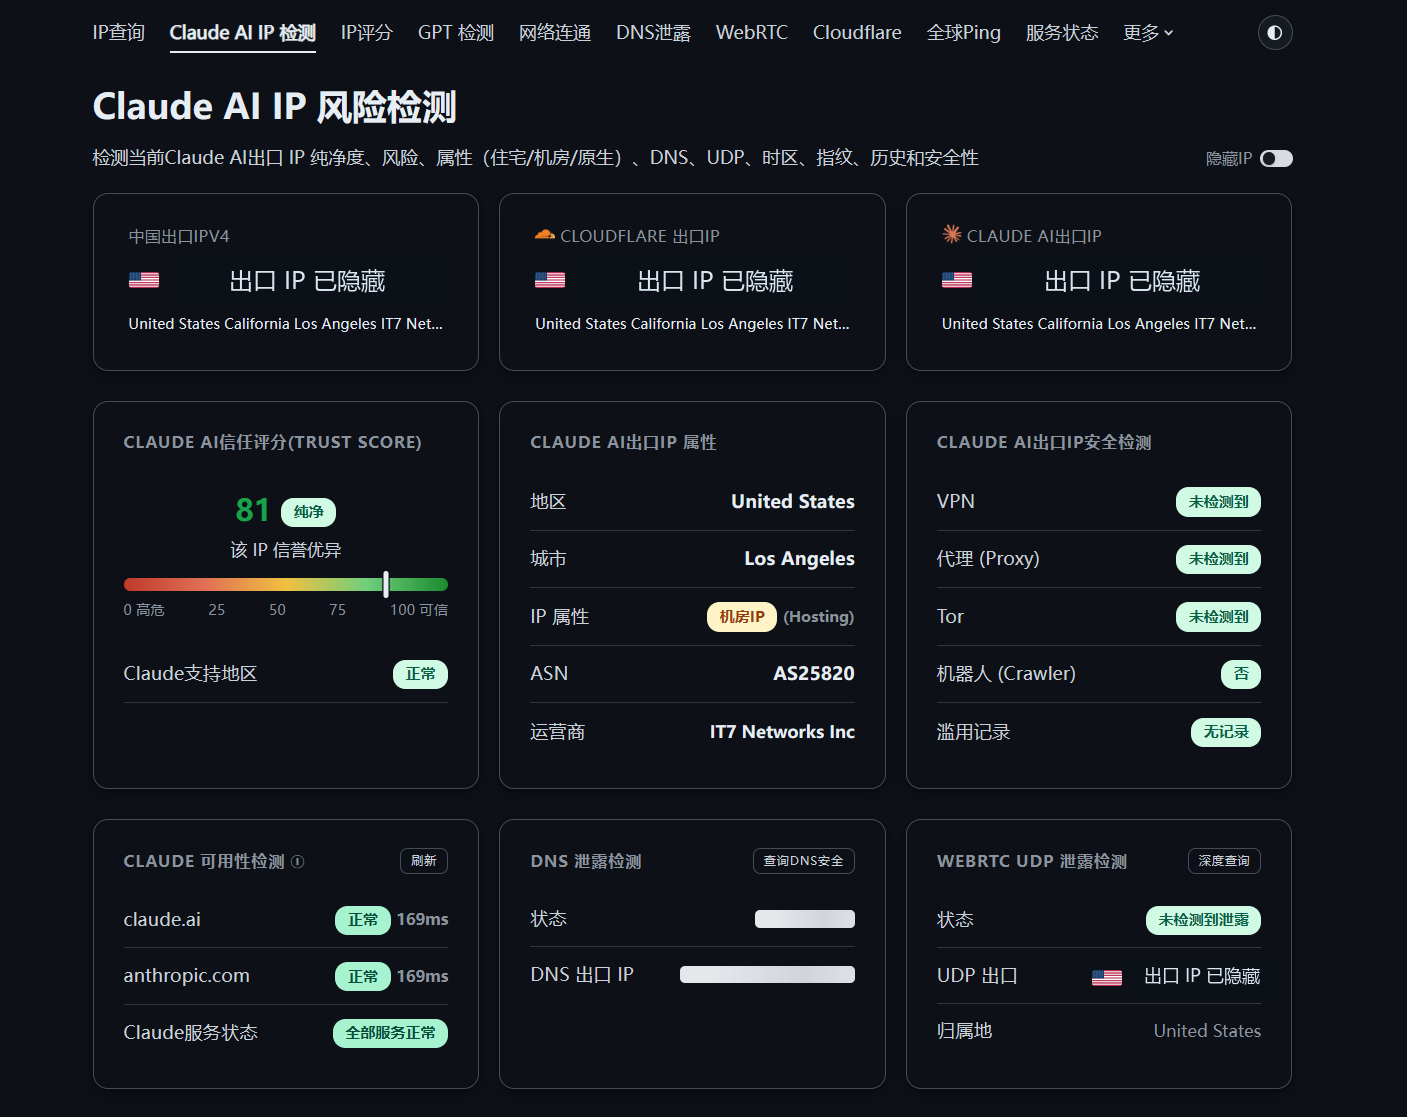
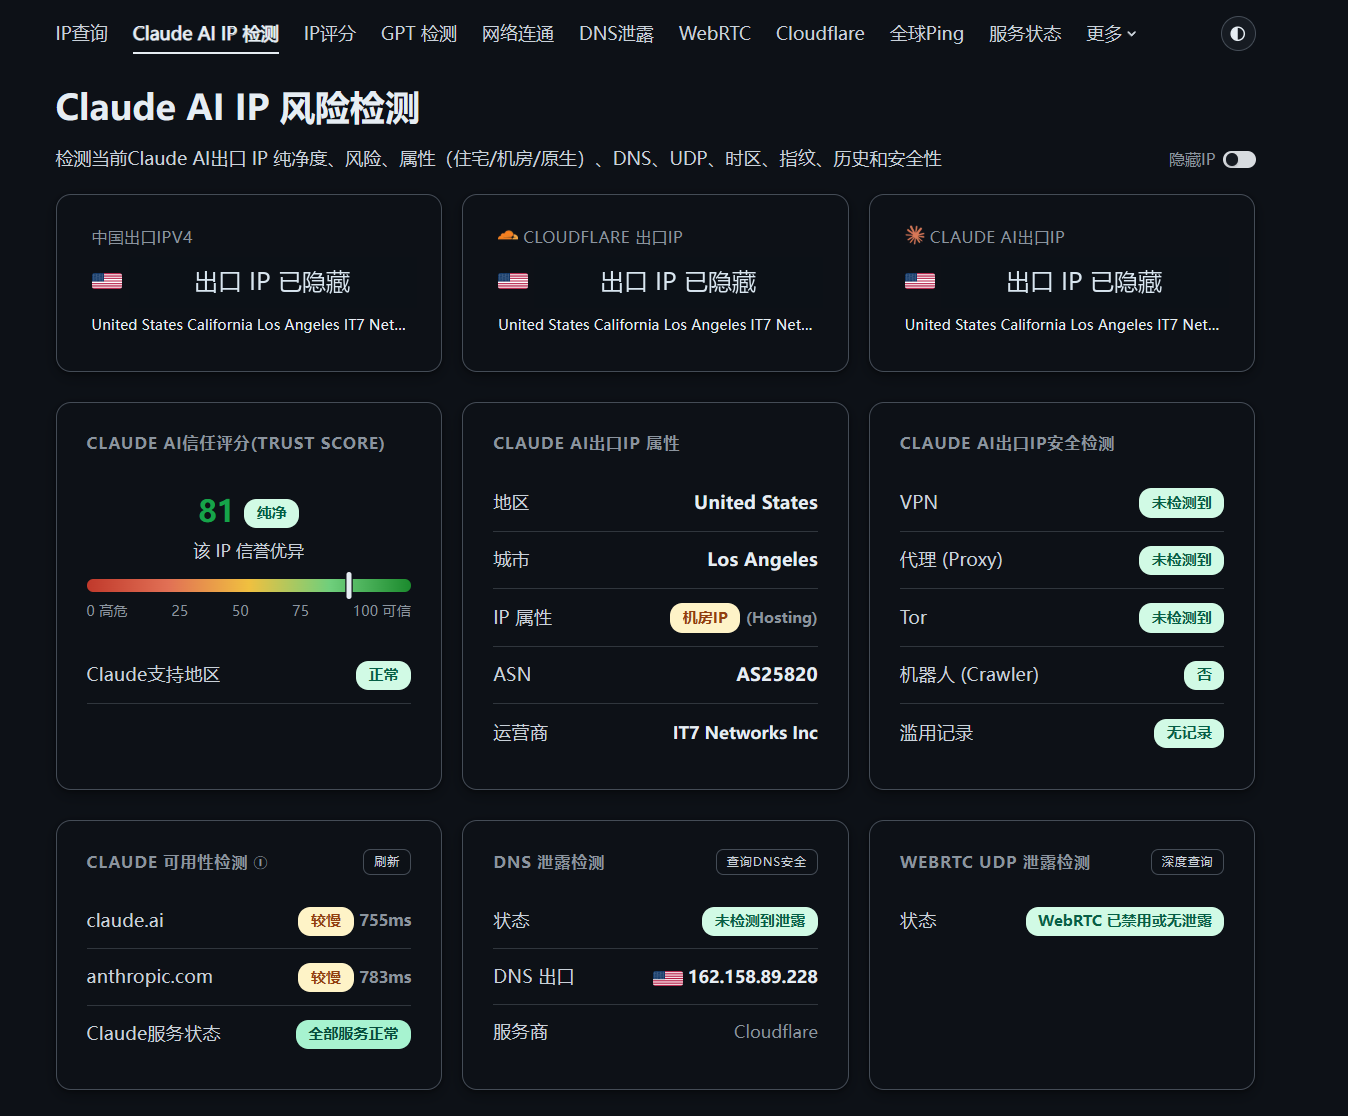
Update redacted Cloudflare DNS demo and clarify resolver versus exit IP

diff --git a/README.md b/README.md
@@ -39,9 +39,11 @@ Clash Verge Rev 的 Windows 订阅同步工具。
 
 ## 效果展示
 
-![固定出口链路检测示例，出口 IP 已隐藏](docs/images/fixed-exit-demo-redacted.png)
+![固定出口及 Cloudflare DNS 检测示例，代理出口 IP 已隐藏](docs/images/fixed-exit-demo-redacted.png)
 
-截图由使用者提供，已遮挡全部出口 IP；原图没有纳入仓库。页面内的评分、可用性和泄漏检测为第三方网站当时的结果，仅作界面示例，不构成对任何服务的可用性、账号稳定性或绝无泄漏的保证。
+截图由使用者提供，已遮挡个人代理出口 IP，保留 Cloudflare DNS 检测结果；原图没有纳入仓库。DNS 栏显示的解析器出口 IP 属于 DNS 服务的出站地址，不需要与最终代理出口 IP 相同；它也不是配置中的 DoH 入口地址 `1.1.1.1`/`1.0.0.1`。页面中的“Cloudflare 出口 IP”卡片反映的是访问网站时的代理出口，不能仅凭该卡片证明 DNS 上游。
+
+本工具生成的 DNS 上游为 Cloudflare 的 `https://1.1.1.1/dns-query` 和 `https://1.0.0.1/dns-query`，通过代理传输。截图的 DNS 服务商一栏也显示 Cloudflare；但页面内的评分、可用性、DNS 和 WebRTC 状态仍是第三方网站当时的结果，仅作示例，不构成对任何服务的可用性、账号稳定性或绝无泄漏的保证。“WebRTC 已禁用或无泄露”不能替代实际 UDP 出口测试。
 
 ## 准备条件
 
